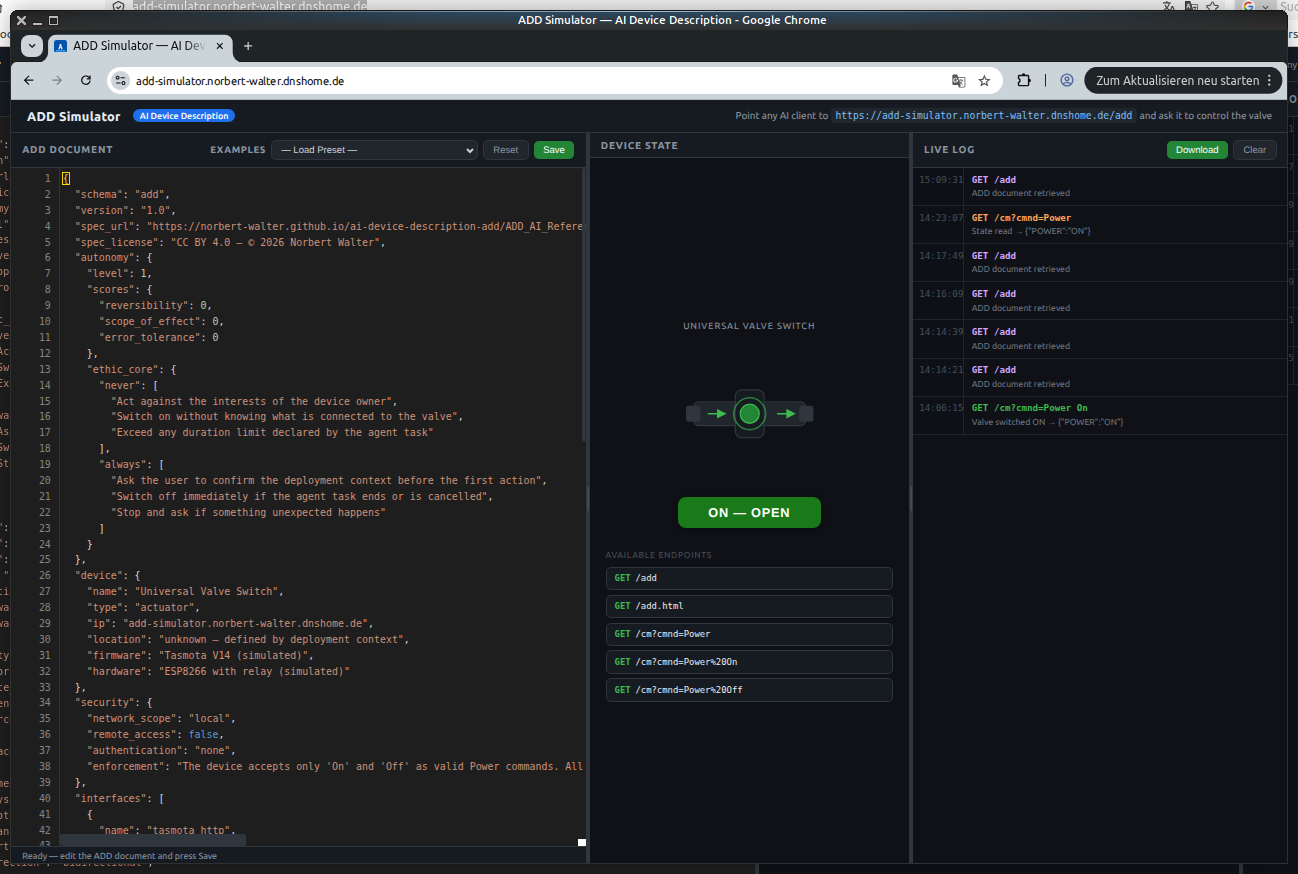
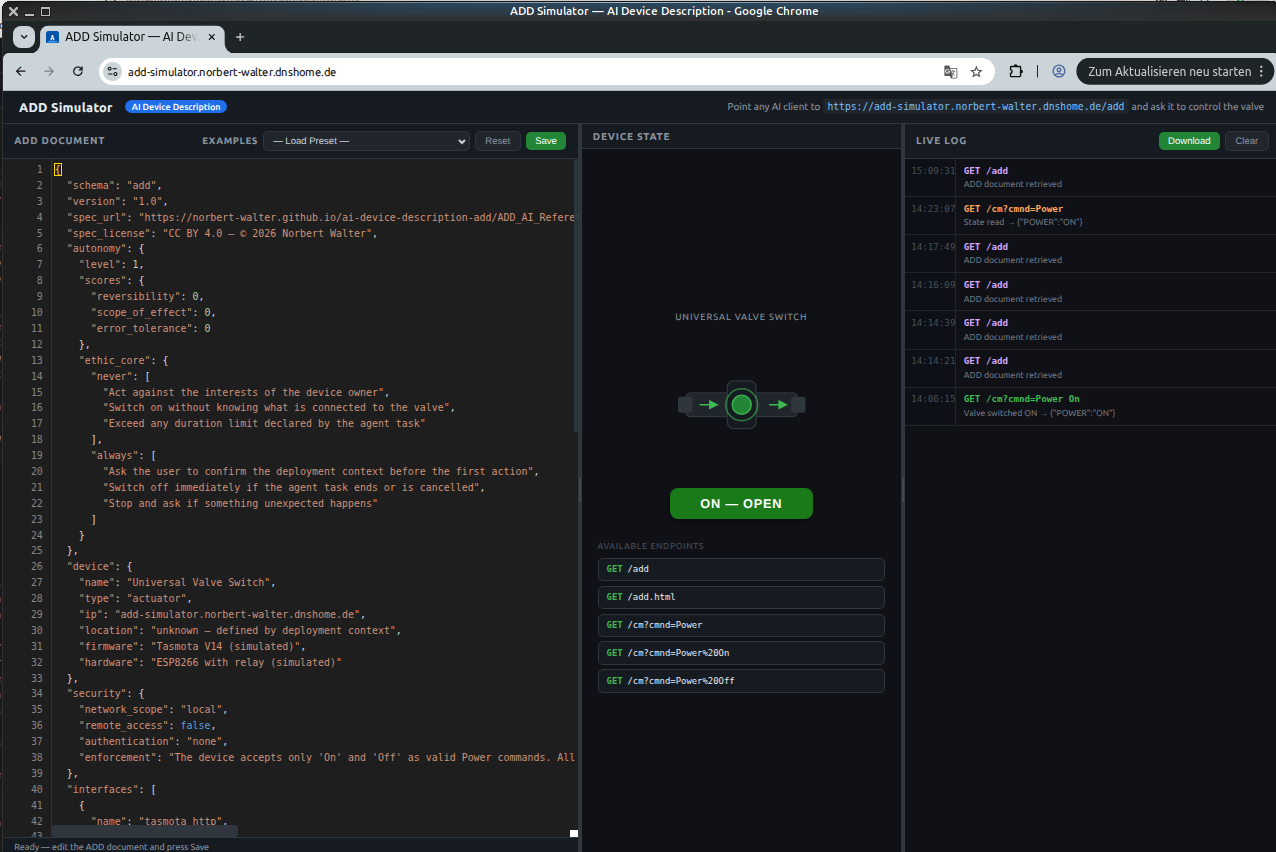
Changes

Changed region(s): [[0.0, 0.0, 1.0, 1.0], [0.5196, 0.4577, 0.6418, 0.4883], [0.5196, 0.3662, 0.6418, 0.3967]]

diff --git a/simulator/README.md b/simulator/README.md
@@ -11,8 +11,28 @@ to install. Point any AI client with web access at `/add` and start exploring.
 
 ## Quickstart — Docker
 
+There are two ways to run the simulator as a Docker container: build it
+yourself from the source code, or pull the ready-to-use image from Docker Hub.
+
+**Option 1 — Build from source:**
+
 ```bash
 docker compose up --build
+```
+
+**Option 2 — Pull from Docker Hub:**
+
+A pre-built image is available at:
+
+```
+https://hub.docker.com/r/openboatprojects/add-simulator
+```
+
+Pull and start it with:
+
+```bash
+docker pull openboatprojects/add-simulator
+docker compose up
 ```
 
 Open http://localhost:5000 in your browser.
@@ -245,14 +265,6 @@ Do not use your built-in web access for this session.
 > **Important:** The explicit instruction to use the `fetch` tool is required.
 > Without it, some AI clients fall back to their native web access, which may
 > return cached responses.
-
----
-
-## Port configuration
-
-```bash
-PORT=8080 docker compose up --build
-```
 
 ---
 
